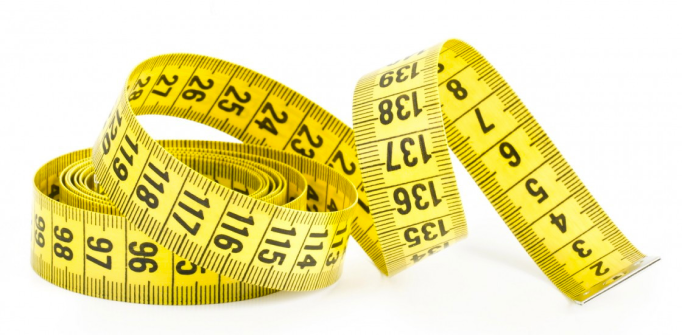
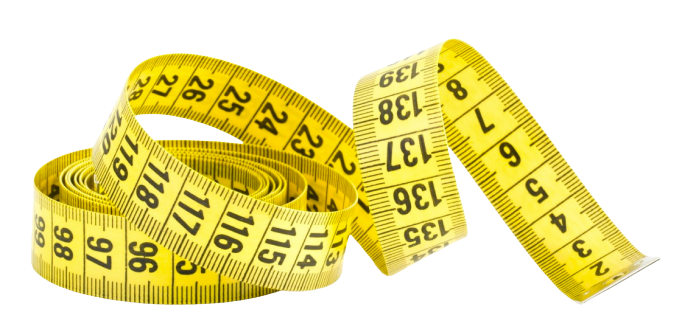
feat: add main page top content

diff --git a/src/components/TopContent.js b/src/components/TopContent.js
@@ -1,0 +1,49 @@
+import styled from 'styled-components';
+import RolledTapeImage from '../assets/img1.png';
+
+export default function TopContent() {
+  return (
+    <ContentContainer>
+      <span>
+        Measuring <br /> everything
+      </span>
+      <img src={RolledTapeImage} alt='Rolled tape' />
+    </ContentContainer>
+  );
+}
+
+const ContentContainer = styled.div`
+  height: 600px;
+  margin: 0 auto;
+  display: flex;
+  align-items: center;
+  justify-content: center;
+
+  span {
+    font-size: 82px;
+    font-weight: bold;
+    color: #716565;
+  }
+
+  img {
+    width: 682px;
+    height: 335px;
+  }
+
+  @media (max-width: 600px) {
+    flex-wrap: wrap;
+    width: 100%;
+    height: 300px;
+
+    span {
+      font-size: 53px;
+      font-weight: bold;
+      color: #716565;
+    }
+
+    img {
+      max-width: 285px;
+      max-height: 140px;
+    }
+  }
+`;

diff --git a/src/pages/MainPage.js b/src/pages/MainPage.js
@@ -1,5 +1,16 @@
+import styled from 'styled-components';
 import Header from '../components/Header';
+import TopContent from '../components/TopContent';
 
 export default function MainPage() {
-  return <Header />;
+  return (
+    <MainPageContainer>
+      <Header />
+      <TopContent />
+    </MainPageContainer>
+  );
 }
+
+const MainPageContainer = styled.div`
+  margin-top: 110px;
+`;

diff --git a/src/components/Header.js b/src/components/Header.js
@@ -88,13 +88,13 @@ const Logo = styled.img`
 const Menu = styled.nav`
   ul {
     display: flex;
-
     flex-wrap: wrap;
   }
   li {
     margin-left: 50px;
     letter-spacing: 5.4px;
   }
+
   @media (max-width: 600px) {
     display: none;
   }
